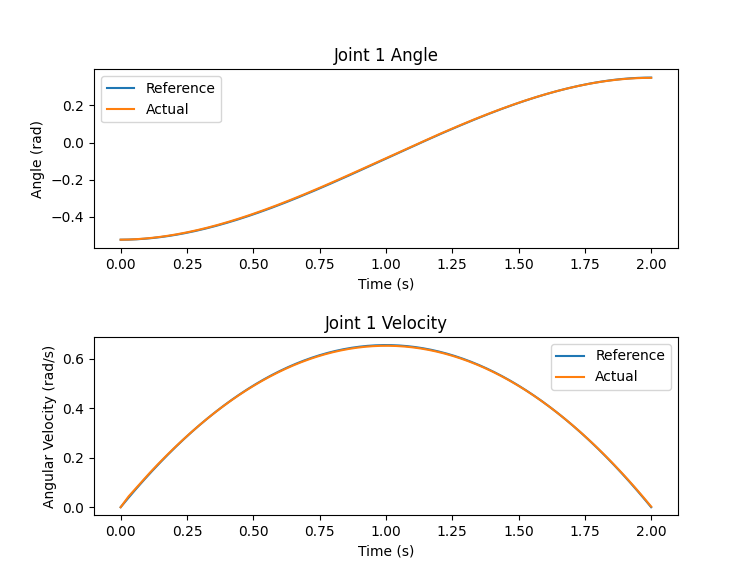
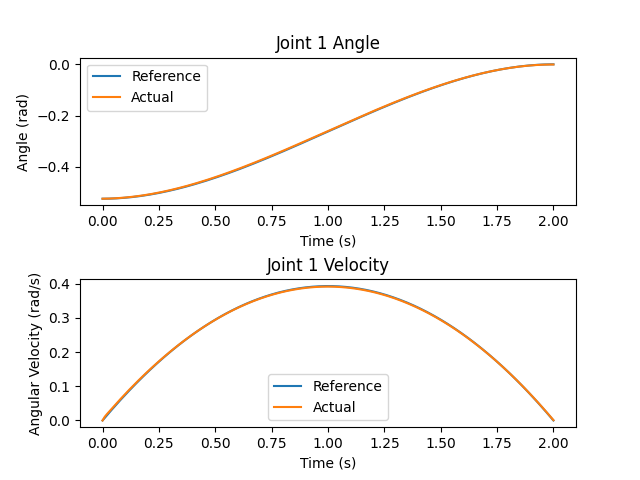
Final Submission

diff --git a/hw1/pnc/manipulator_pnc/manipulator_interface.py b/hw1/pnc/manipulator_pnc/manipulator_interface.py
@@ -1,11 +1,9 @@
-from array import array
 import os
 import sys
 
 cwd = os.getcwd()
 sys.path.append(cwd)
-import time, math
-from util import liegroup
+import math
 
 import numpy as np
 from numpy.linalg import pinv
@@ -51,7 +49,9 @@ class ManipulatorInterface(Interface):
         for key in self.robot_traject:
             self.robot_traject[key] = list()
             
-        self.obstacle = [np.array([1.0, 1.0, 0]), np.array([2, 2.0, 0])]
+        self.show_obstacle = False
+        self.obstacle = [np.array([1.0, 2.0, 0]), np.array([3, 1.0, 0])]
+        
         self.last_torque = np.array([0, 0, 0])
             
         np.set_printoptions(linewidth=100)
@@ -67,7 +67,7 @@ class ManipulatorInterface(Interface):
             sensor_data["joint_vel"])
 
         # Question 2
-        # jtrq_cmd = self._compute_jpos_command()
+        jtrq_cmd = self._compute_jpos_command()
         
         # Question 3
         # jtrq_cmd = self._compute_osc_command()
@@ -76,12 +76,13 @@ class ManipulatorInterface(Interface):
         # jtrq_cmd = self._compute_wbc_command()
         
         # Question 5
-        jtrq_cmd = self._compute_obstacle_avoidance_cmd()
+        # Set line 52 of this file to True for pretty obstacle graphic
+        # jtrq_cmd = self._compute_obstacle_avoidance_cmd()
 
         jpos_cmd = np.zeros_like(jtrq_cmd)
         jvel_cmd = np.zeros_like(jtrq_cmd)
 
-        # Apply torque limit
+        # Apply torque limit (not required but helpful for debugging)
         t_lim = 150
         jtrq_cmd[jtrq_cmd > t_lim] = t_lim
         jtrq_cmd[jtrq_cmd < -t_lim] = -t_lim
@@ -101,7 +102,7 @@ class ManipulatorInterface(Interface):
 
     def _compute_jpos_command(self):
 
-        q_des = np.array([0.35, 1.57, 0.35])
+        q_des = np.array([0, 1.57, 0])
         q_vel_des = np.array([0, 0, 0])
 
         # On first run, compute desired trajectory given start and end conditions for each joint
@@ -511,67 +512,72 @@ class ManipulatorInterface(Interface):
         
         # Constants
         kp1 = 0.5
-        kd1 = 20
+        kd1 = 10
         beta = 0.4
         
         kp2 = 20
         kd2 = 10
-        kp_q = 0.0
-        kd_q = 0.0
+        kp_q = 1.0
+        kd_q = 0.5
 
-        ee_des = np.array([1.57, 1.5, 1.5])
-        ee_vel_des = np.array([0, 0, 0])
+        ee_des = np.array([1.5, 2.0])
+        ee_vel_des = np.array([0, 0])
         
-        [theta_i, x_i, y_i] = self.get_end_effector_position_2D("ee")
-        [theta_vel_i, x_vel_i, y_vel_i] = self.get_end_effector_velocity_2D("ee")
+        [_, x_i, y_i] = self.get_end_effector_position_2D("ee")
+        [_, x_vel_i, y_vel_i] = self.get_end_effector_velocity_2D("ee")
         
         # On first run, compute desired trajectory given start and end conditions for each joint
         if(self._count == 0):
             t_range = (0, 2)
-            self.planned_traject["theta"] = self._compute_cubic_trajectory((theta_i, ee_des[0]), (theta_vel_i, ee_vel_des[0]), t_range)
-            self.planned_traject["x"] = self._compute_cubic_trajectory((x_i, ee_des[1]), (x_vel_i, ee_vel_des[1]), t_range)
-            self.planned_traject["y"] = self._compute_cubic_trajectory((y_i, ee_des[2]), (y_vel_i, ee_vel_des[2]), t_range)
+            self.planned_traject["x"] = self._compute_cubic_trajectory((x_i, ee_des[0]), (x_vel_i, ee_vel_des[0]), t_range)
+            self.planned_traject["y"] = self._compute_cubic_trajectory((y_i, ee_des[1]), (y_vel_i, ee_vel_des[1]), t_range)
 
+        # Follow Trajectory with Aref + PD or hold position with pure PD
         if(self._count < np.size(self.planned_traject["x"]["time"])):
             # Set desired end effector position, velocity, and acceleration vectors
             xi_osc_des = np.array([
-                self.planned_traject["theta"]["pos"][self._count],
                 self.planned_traject["x"]["pos"][self._count],
                 self.planned_traject["y"]["pos"][self._count]])
             xi_vel_osc_des = np.array([
-                self.planned_traject["theta"]["vel"][self._count],
                 self.planned_traject["x"]["vel"][self._count],
                 self.planned_traject["y"]["vel"][self._count]])
             xi_accel_osc_des = np.array([
-                self.planned_traject["theta"]["accel"][self._count],
                 self.planned_traject["x"]["accel"][self._count],
                 self.planned_traject["y"]["accel"][self._count]])
         else:
             xi_osc_des = ee_des
-            xi_vel_osc_des = np.array([0, 0, 0])
-            xi_accel_osc_des = np.array([0, 0, 0])
+            xi_vel_osc_des = np.array([0, 0])
+            xi_accel_osc_des = np.array([0, 0])
 
         repulsion_force = 0
         d_obs = 0
         if(self.get_ee_dist_to_obstacle() > beta):
             # Operational Space Control
             # Calculate acceleration reference in Task Space
-            a_ref = (xi_accel_osc_des + kp2 * (xi_osc_des - np.array([theta_i, x_i, y_i])) + kd2 * (xi_vel_osc_des - np.array([theta_vel_i, x_vel_i, y_vel_i])))
-            j_p = self._robot.get_link_jacobian("ee")[2:5, :]
-            M_p = pinv(j_p @ pinv(self._robot.get_mass_matrix()) @ j_p.T)
-            F_p = M_p @ (a_ref - self._robot.get_link_jacobian_dot_times_qdot("ee")[2:5])
+            a_ref = (xi_accel_osc_des + kp2 * (xi_osc_des - np.array([x_i, y_i])) + kd2 * (xi_vel_osc_des - np.array([x_vel_i, y_vel_i])))
+            A_inv = pinv(self._robot.get_mass_matrix())
+            j_p = self._robot.get_link_jacobian("ee")[3:5, :]
+            M_p = pinv(j_p @ A_inv @ j_p.T)
+            F_p = M_p @ (a_ref - self._robot.get_link_jacobian_dot_times_qdot("ee")[3:5])
+            j_p_bar = A_inv @ j_p.T @ M_p
+            N_p = np.eye(3) - j_p_bar @ j_p
+            
+            j_q_p = N_p
+            M_q_p = pinv(j_q_p @ A_inv @ j_q_p.T)
+            aq_ref = (-kd2 * self._robot.get_q() -kd2 * self._robot.get_q_dot())
+            F_q_p = M_q_p @ aq_ref
             
             # Convert to joint space commands
-            jtrq = j_p.T @ F_p + self._robot.get_coriolis() + self._robot.get_gravity()
+            jtrq = j_p.T @ F_p + j_q_p.T @ F_q_p + self._robot.get_coriolis() + self._robot.get_gravity()
         else:
             # Prioritized Obstacle Avoidance
-            j_p = self._robot.get_link_jacobian("ee")[2:5, :]
+            j_p = self._robot.get_link_jacobian("ee")[3:5, :]
             A_inv = pinv(self._robot.get_mass_matrix())
             
             # Obstacle Task
             r_to_obs = self.get_rotation_to_obstacle()
             s_obs = np.array([[0, 0], [0, 1]])
-            j_obs = r_to_obs @ s_obs @ r_to_obs.T @ j_p[1:, :]
+            j_obs = r_to_obs @ s_obs @ r_to_obs.T @ j_p
             M_obs = pinv(j_obs @ A_inv @ j_obs.T)
             
             d_obs = ((self.get_vector_ee_to_obstacle_proj() - beta * self.get_obstacle_unit_normal()).T@(self.get_vector_ee_to_obstacle_proj() - beta * self.get_obstacle_unit_normal()))[0,0]
@@ -579,8 +585,6 @@ class ManipulatorInterface(Interface):
 
             a_ref_obs = r_to_obs @ ((-kp1 * np.array([0, -2*(d_obs - beta)]) - kd1 * np.array([0, ee_vel_obs[1, 0]])).reshape(2, 1))
             F_obs = M_obs @ (a_ref_obs - (self._robot.get_link_jacobian_dot_times_qdot("ee")[3:5]).reshape(2, 1))
-            trq_obs = j_obs.T @ F_obs
-            trq_obs = np.array([0, trq_obs[0], trq_obs[1]]).reshape(3, 1)
             
             j_obs_bar = A_inv @ j_obs.T @ M_obs
             N_obs = np.eye(3) - j_obs_bar @ j_obs
@@ -588,18 +592,18 @@ class ManipulatorInterface(Interface):
             # Position Task
             j_p_o = j_p @ N_obs
             M_p_o = pinv(j_p_o @ A_inv @ j_p_o.T)
-            a_ref = (xi_accel_osc_des + kp2 * (xi_osc_des - np.array([theta_i, x_i, y_i])) + kd2 * (xi_vel_osc_des - np.array([theta_vel_i, x_vel_i, y_vel_i]))).reshape(3, 1)
-            F_p_o = M_p_o @ (a_ref - (self._robot.get_link_jacobian_dot_times_qdot("ee")[2:5]).reshape(3, 1))
+            a_ref = (xi_accel_osc_des + kp2 * (xi_osc_des - np.array([x_i, y_i])) + kd2 * (xi_vel_osc_des - np.array([x_vel_i, y_vel_i]))).reshape(2, 1)
+            F_p_o = M_p_o @ (a_ref - (self._robot.get_link_jacobian_dot_times_qdot("ee")[3:5]).reshape(2, 1))
             j_p_bar = A_inv @ j_p_o.T @ M_p_o
             N_p = (np.eye(3) - j_p_bar @ j_p) @ N_obs
 
             # Joint Damping Task
-            # j_q_p_o = N_p
-            # M_q_p_o = pinv(j_q_p_o @ A_inv @ j_q_p_o.T)
-            # F_q_p_o = M_q_p_o @ (-kp_q * self._robot.get_q() - kd_q * self._robot.get_q_dot())
+            j_q_p_o = N_p
+            M_q_p_o = pinv(j_q_p_o @ A_inv @ j_q_p_o.T)
+            F_q_p_o = M_q_p_o @ (-kp_q * self._robot.get_q() - kd_q * self._robot.get_q_dot()).reshape(3, 1)
             
             # Set Joint Torques
-            jtrq = trq_obs + j_p_o.T @ F_p_o + (self._robot.get_coriolis() + self._robot.get_gravity()).reshape(3, 1)
+            jtrq = j_obs.T @ F_obs + j_p_o.T @ F_p_o + j_q_p_o @ F_q_p_o +  (self._robot.get_coriolis() + self._robot.get_gravity()).reshape(3, 1)
             repulsion_force = F_obs[1, 0]
         
         # Check for jacobian singularity
@@ -612,10 +616,8 @@ class ManipulatorInterface(Interface):
         # EE States
         self.robot_traject["x"].append(x_i)
         self.robot_traject["y"].append(y_i)
-        self.robot_traject["theta"].append(x_i)
         self.robot_traject["x_vel"].append(x_vel_i)
         self.robot_traject["y_vel"].append(y_vel_i)
-        self.robot_traject["theta_vel"].append(y_vel_i)
 
         # Joint States
         self.robot_traject["q1"].append(self._robot.get_q()[0])
@@ -632,9 +634,9 @@ class ManipulatorInterface(Interface):
 
         # Repulsion force
         self.robot_traject["force"].append(repulsion_force)
-        self.robot_traject["d_obs"].append(d_obs)
+        self.robot_traject["d_obs"].append(self.get_ee_dist_to_obstacle())
 
-        if(self._count > 400):
+        if(self._count > np.size(self.planned_traject["x"]["time"]) + 10):
             # Plot
             plt.figure()
             plt.subplot(2, 1, 1).set_title("X Position")
@@ -724,6 +726,7 @@ class ManipulatorInterface(Interface):
             plt.legend()
             plt.subplot(2, 1, 2).set_title("Distance to Obstacle")
             plt.plot(self.robot_traject["time"], self.robot_traject["d_obs"])
+            plt.plot(self.robot_traject["time"], beta*np.ones_like(self.robot_traject["time"]), linestyle='--')
             plt.ylabel("Distance (M)")
             plt.xlabel("Time (s)")
             plt.subplots_adjust(hspace=1.00)

diff --git a/hw1/simulator/pybullet/manipulator_main.py b/hw1/simulator/pybullet/manipulator_main.py
@@ -44,23 +44,22 @@ if __name__ == "__main__":
     p.resetJointState(robot, 0, -np.pi / 6., 0.)
     p.resetJointState(robot, 1, np.pi / 6., 0.)
     p.resetJointState(robot, 2, np.pi / 3., 0.)
-    # p.resetJointState(robot, 0, 0, 0.)
-    # p.resetJointState(robot, 1, 0, 0.)
-    # p.resetJointState(robot, 2, 0, 0.)
 
     # Joint Friction
     pybullet_util.set_joint_friction(robot, joint_id, 0.1)
 
     # Construct Interface
     interface = ManipulatorInterface()
-
-    obstacle_height = 0.5
-    p.addUserDebugLine(interface.obstacle[0], interface.obstacle[1], lineColorRGB=[0, 0, 1], lineWidth=2.0, lifeTime=0)
-    p.addUserDebugLine(interface.obstacle[0], interface.obstacle[0] + np.array([0, 0, obstacle_height]), lineColorRGB=[0, 0, 1], lineWidth=2.0, lifeTime=0)
-    p.addUserDebugLine(interface.obstacle[1], interface.obstacle[1] + np.array([0, 0, obstacle_height]), lineColorRGB=[0, 0, 1], lineWidth=2.0, lifeTime=0)
-    p.addUserDebugLine(interface.obstacle[0] + np.array([0, 0, obstacle_height]), interface.obstacle[1] + np.array([0, 0, obstacle_height]), lineColorRGB=[0, 0, 1], lineWidth=2.0, lifeTime=0)
-    p.addUserDebugLine(interface.obstacle[0], interface.obstacle[1] + np.array([0, 0, obstacle_height]), lineColorRGB=[0, 0, 1], lineWidth=2.0, lifeTime=0)
-    p.addUserDebugLine(interface.obstacle[1], interface.obstacle[0] + np.array([0, 0, obstacle_height]), lineColorRGB=[0, 0, 1], lineWidth=2.0, lifeTime=0)
+    
+    # Obstacle Avoidance Visualization
+    if(interface.show_obstacle):
+        obstacle_height = 0.5
+        p.addUserDebugLine(interface.obstacle[0], interface.obstacle[1], lineColorRGB=[0, 0, 1], lineWidth=2.0, lifeTime=0)
+        p.addUserDebugLine(interface.obstacle[0], interface.obstacle[0] + np.array([0, 0, obstacle_height]), lineColorRGB=[0, 0, 1], lineWidth=2.0, lifeTime=0)
+        p.addUserDebugLine(interface.obstacle[1], interface.obstacle[1] + np.array([0, 0, obstacle_height]), lineColorRGB=[0, 0, 1], lineWidth=2.0, lifeTime=0)
+        p.addUserDebugLine(interface.obstacle[0] + np.array([0, 0, obstacle_height]), interface.obstacle[1] + np.array([0, 0, obstacle_height]), lineColorRGB=[0, 0, 1], lineWidth=2.0, lifeTime=0)
+        p.addUserDebugLine(interface.obstacle[0], interface.obstacle[1] + np.array([0, 0, obstacle_height]), lineColorRGB=[0, 0, 1], lineWidth=2.0, lifeTime=0)
+        p.addUserDebugLine(interface.obstacle[1], interface.obstacle[0] + np.array([0, 0, obstacle_height]), lineColorRGB=[0, 0, 1], lineWidth=2.0, lifeTime=0)
 
     # Run Sim
     t = 0
